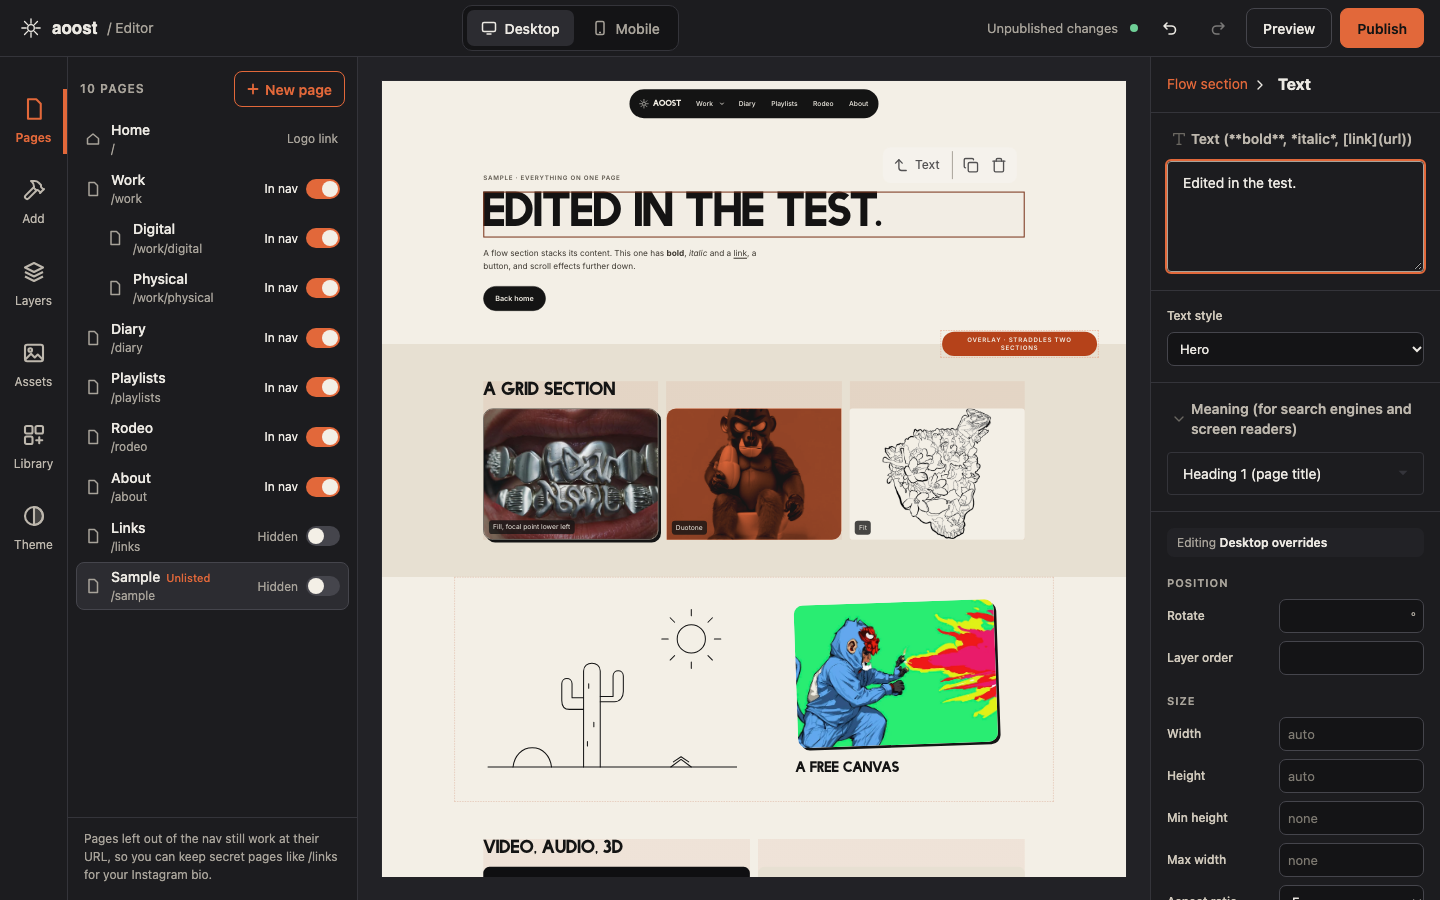
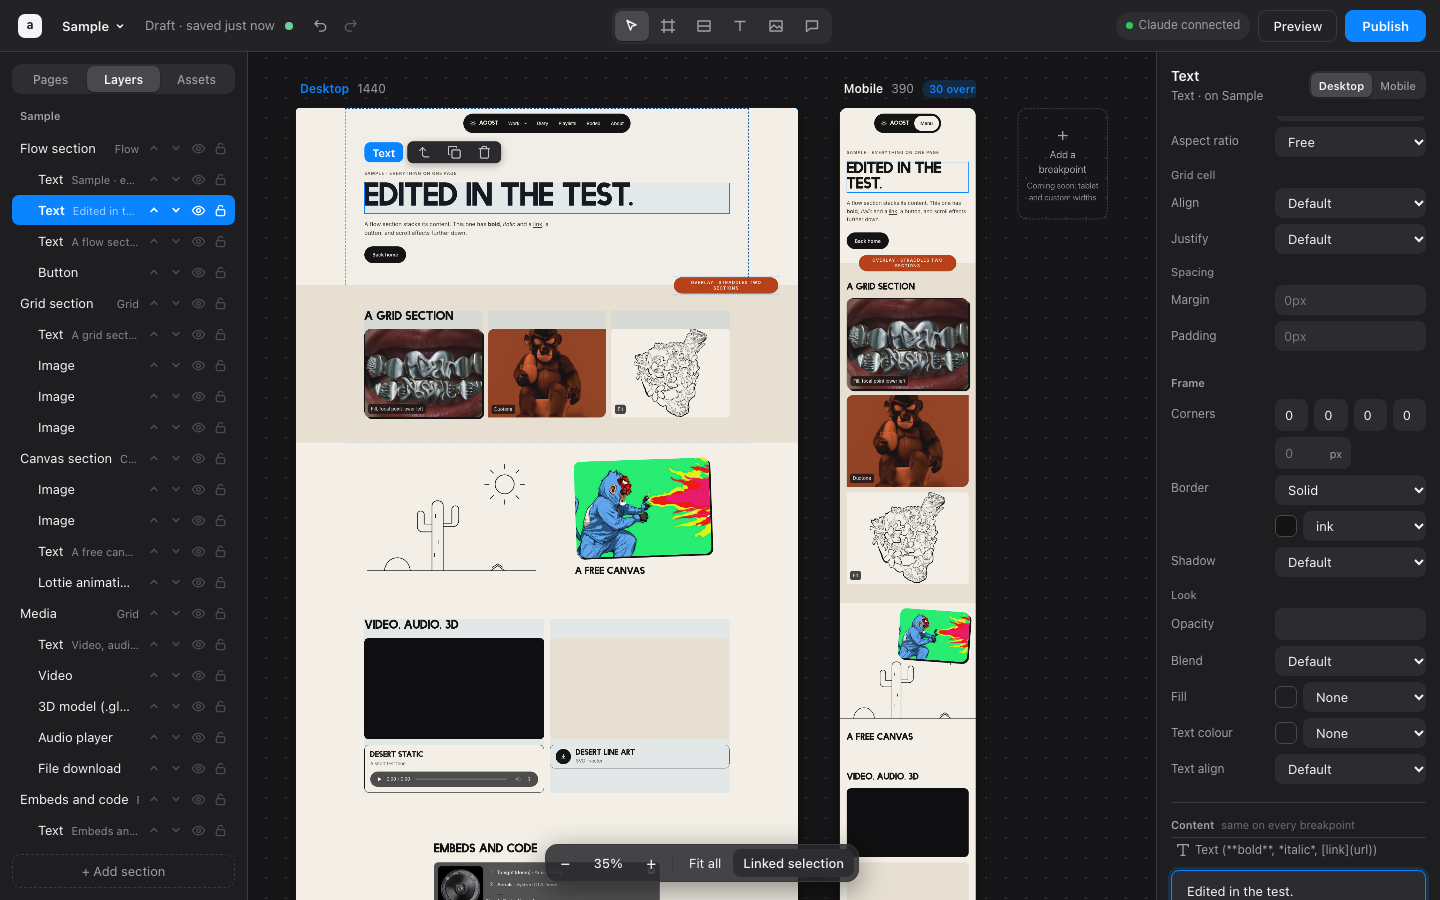
Quick edit and controls in the dark Pro palette, editor screenshots, docs
- Quick edit and every panel share the new tokens and controls
- docs/screenshots/editor-redesign: the B mockup export next to the editor
  with Home open at 1440x900 (fitted, and with a block selected on Mobile)
- README and DECISIONS describe the board and the editing rule

diff --git a/cms/tests/board.spec.ts b/cms/tests/board.spec.ts
@@ -1,5 +1,9 @@
 import { expect, test, type Page } from "@playwright/test";
+import { dirname, resolve } from "node:path";
+import { fileURLToPath } from "node:url";
 import { draftSite, editorPassword, mcpCall, onBoard, resetDraft, signIn } from "./helpers";
+
+const shots = resolve(dirname(fileURLToPath(import.meta.url)), "../../docs/screenshots/editor-redesign");
 
 /**
  * The side-by-side breakpoint board: Desktop and Mobile frames of one draft,
@@ -129,5 +133,32 @@ test.describe("breakpoint board", () => {
     const slot = page.locator(".bd-slot");
     await expect(slot).toHaveAttribute("aria-disabled", "true");
     await expect(slot).toHaveAttribute("title", "Coming soon: tablet and custom widths");
+  });
+});
+
+test.describe("editor screenshots for the docs", () => {
+  test.skip(!password, "needs EDITOR_PASSWORD in .dev.vars");
+  test.use({ viewport: { width: 1440, height: 900 } });
+
+  test("Home open at 1440×900: fitted, and with a block selected on Mobile", async ({ page, request }) => {
+    await resetDraft(request, password!);
+    await signIn(page, password!);
+    // Never write to the live Supabase project from a test.
+    await page.context().route(/supabase\.co|cdn\.jsdelivr\.net\/npm\/@supabase/, (route) => route.abort());
+    await page.goto("/admin/");
+    await page.evaluate(() => localStorage.clear());
+    await page.reload();
+    await expect(editable(page).locator('.ao-b[data-ao="projects"] h2')).toBeVisible();
+    await expect(live(page, "mobile").locator('.ao-b[data-ao="projects"]')).toBeVisible();
+    await page.waitForTimeout(1500);
+    await page.screenshot({ path: `${shots}/editor-home-1440.png` });
+
+    const b = await onBoard(page, live(page, "mobile").locator('.ao-b[data-ao="projects"] h2'));
+    await page.mouse.click(b.x + b.width / 2, b.y + b.height / 2);
+    await expect(bpSwitch(page, "Mobile")).toHaveAttribute("aria-pressed", "true");
+    await page.getByRole("button", { name: "Fit all" }).click();
+    await page.waitForTimeout(1200);
+    await page.screenshot({ path: `${shots}/editor-home-mobile-selected-1440.png` });
+    await resetDraft(request, password!);
   });
 });

diff --git a/cms/src/editor/board/Board.tsx b/cms/src/editor/board/Board.tsx
@@ -6,7 +6,7 @@ import { activateBreakpoint } from "./bridge";
 import { LiveFrame } from "./LiveFrame";
 import { countMobileOverrides } from "./overrides";
 import { frameRects, getBoard, openPage, panBy, setSize, useBoard } from "./store";
-import { isVisible, slotRect } from "./viewport";
+import { FRAME_GAP, isVisible, slotRect } from "./viewport";
 import { onBoardWheel } from "./wheel";
 import { ZoomBar } from "./ZoomBar";
 import "./board.css";
@@ -112,12 +112,13 @@ export function Board() {
           key={f.bp}
           type="button"
           className={`bd-label${f.bp === bp ? " is-active" : ""}`}
-          style={{ ...screen(f.x, f.y), maxWidth: Math.max(120, f.w * view.zoom) }}
+          style={{ ...screen(f.x, f.y), maxWidth: Math.max(180, (f.w + FRAME_GAP * 0.9) * view.zoom) }}
           onClick={() => activateBreakpoint(f.bp)}
           aria-pressed={f.bp === bp}
           aria-label={`Edit the ${NAME[f.bp]} frame`}
         >
           <strong>{NAME[f.bp]}</strong> {f.w}
+          {f.bp === "desktop" ? " · base for wide screens" : null}
           {f.bp === "mobile" && overrides ? <span className="bd-badge">{overrides === 1 ? "1 override" : `${overrides} overrides`}</span> : null}
         </button>
       ))}

diff --git a/cms/src/editor/quick.css b/cms/src/editor/quick.css
@@ -24,7 +24,7 @@
   line-height: 1.2;
 }
 .qe-brand strong {
-  font: 700 17px "Space Grotesk", Inter, sans-serif;
+  font: 600 15px var(--ed-font);
 }
 .qe-brand span {
   font-size: 12px;
@@ -60,7 +60,7 @@
   border-bottom: 2px solid transparent;
   background: transparent;
   color: var(--ed-muted);
-  font: 500 15px Inter, system-ui, sans-serif;
+  font: 500 15px var(--ed-font);
   cursor: pointer;
 }
 .qe-tabs button[aria-selected="true"] {

diff --git a/cms/src/editor/editor.css b/cms/src/editor/editor.css
@@ -171,7 +171,7 @@ body {
 .ed-btn-accent {
   border-color: var(--ed-accent);
   background: var(--ed-accent);
-  color: var(--ed-ink);
+  color: #fff;
   font-weight: 600;
 }
 .ed-btn-accent:hover:not(:disabled) {
@@ -185,7 +185,7 @@ body {
 .ed-btn-danger {
   border-color: var(--ed-accent);
   background: var(--ed-accent);
-  color: var(--ed-ink);
+  color: #fff;
 }
 .ed-btn:disabled,
 .ed-icon:disabled {

diff --git a/cms/src/editor/main.tsx b/cms/src/editor/main.tsx
@@ -2,6 +2,7 @@ import { StrictMode } from "react";
 import { createRoot } from "react-dom/client";
 import { App } from "./App";
 import "./editor.css";
+import "./workspace/workspace.css";
 
 createRoot(document.getElementById("root")!).render(
   <StrictMode>

diff --git a/cms/src/editor/workspace/workspace.css b/cms/src/editor/workspace/workspace.css
@@ -529,6 +529,10 @@
   min-height: 30px;
   gap: 8px;
 }
+.ed-row.ed-row-stack {
+  grid-template-columns: minmax(0, 1fr);
+  gap: 6px;
+}
 .ed-label,
 .ed-field-label {
   color: var(--ed-sub);

diff --git a/DECISIONS.md b/DECISIONS.md
@@ -87,3 +87,14 @@ One line each: the decision, and why. Newest at the bottom.
 - Hiding a block on Mobile now leaves it visible on Desktop (before, hiding on mobile also hid desktop unless desktop had its own setting). Why: same "this breakpoint only" rule.
 - Browser tests start the local Worker with `--var AUTH_MODE:password` (production stays on Cloudflare Access) and take `E2E_PORT` when 8787 is busy. Why: the tests sign in with the editor password; production settings are not touched.
 - Before this work, 14 browser tests already failed on `main` because every page except the homepage is a draft (commit 6af6862), so `/about`, `/sample` and friends are 404 on the built site, plus the Cape Town clock test. They are unrelated to the editor and were left as they are.
+- Puck runs in composition mode (`<Puck>` with our own layout) with `overrides` for its frame and action bar and CSS for the rest; Puck itself is not forked. The active breakpoint's frame is Puck's editable preview; the other frame is a live render of the same draft through the public renderer (`PageBody`, editing mode, so the aoost blocks show their first paint). Clicking a block there moves Puck's frame to that breakpoint and selects it. Why: Puck has one editable preview, and moving an iframe in the DOM reloads it, so Puck's frame slides between slots instead.
+- Inside editor frames, viewport units (vh, svh, dvh, lvh) are pinned to a typical screen (900px desktop, 844px mobile) and each frame is as tall as its page. Why: a frame as tall as the page would otherwise make `100vh` grow forever. Only the editor's copy of the CSS is rewritten.
+- "Fit all" fits the frames across the board and lines up their tops; whole pages are only fitted top to bottom when that doesn't shrink them below half the width fit. Why: the homepage is several screens tall, and fitting its full height made it unreadable (about 10%).
+- Tools: Select is the resting tool; Frame (adds a free-layout section), Section, Text and Image each add one block after the selection, select it and hand back to Select, so there is no hidden mode. Ask Claude opens a short note on how to hand Claude the selection (the editor has no chat of its own).
+- "Claude connected" means the connector made an authenticated call in the last 15 minutes (recorded by the draft store as `connectorSeenAt`, `GET /api/editor/claude`). Why: the brief asks the pill to reflect reality; with Cloudflare Access on, the claude.ai connector has no credentials yet, so it will read "Claude not connected".
+- The "+ Add a breakpoint" slot is shown disabled with "Coming soon: tablet and custom widths". Tablet was not added to the schema (as the brief says).
+- Theme and the saved-blocks library moved under Assets (Blocks · Media · Saved · Theme), since the left panel has three tabs in the mockup.
+- On a free-layout (canvas) section, a layer's X/Y/width/height set on Mobile still drive the scaled desktop layout (as dragging always has), so those four don't pin desktop. Every other property follows the Mobile-only rule.
+- The layers list shows a one-block section (the homepage) as a single row and lists its block once the section is selected. Why: the mockup lists sections; each homepage section holds one block.
+- Performance check (homepage open, typing 31 characters into a field with both frames live): no long tasks (over 50 ms) on this Mac. Off-screen frames don't render, and the passive frame re-renders at most every 150 ms while typing.
+- Public output: every page of the site rendered with `main` and with this branch is byte-identical (all 10 pages, drafts included), and the built `dist/` matches apart from the time-based `?v=` cache-busting suffix.

diff --git a/cms/README.md b/cms/README.md
@@ -34,7 +34,7 @@ docs/                    connect-claude.md, auth.md, screenshots/
 
 **Editing flow.** The editor works on a *draft* held in a Durable Object. Every change (yours, or Claude's through `/mcp`) is validated against the schema, saved, and pushed to open editors over a WebSocket. **Publish** commits the draft's `content/` files to GitHub; the `Deploy CMS preview` Action then rebuilds the static site and deploys the Worker. Version history is git history.
 
-**Responsive rule.** The base is mobile. Desktop (900px and up) stores only the values that differ. In the editor a dot marks a property that differs from mobile; click it to reset.
+**Responsive rule.** The base is mobile. Desktop (900px and up) stores only the values that differ. The editor presents it the other way round, as a designer thinks of it: Desktop is the reference, and an edit made while Mobile is active changes Mobile only (it gets a blue dot; the dot or "Reset to desktop" brings back the desktop value). The stored format is the same either way.
 
 ## Local development
 
@@ -91,9 +91,10 @@ Lighthouse, mobile, on the deployed preview (15 Nov 2026): `/sample` performance
 
 ## Using the editor
 
-- **Top bar:** Desktop/Mobile switch (edits apply to the active breakpoint), save status, undo/redo, Preview (the draft, rendered like the live site), Publish.
-- **Left rail:** Pages, Add (drag in sections and components), Layers (select, rename, lock, hide per breakpoint, reorder, overlays), Assets (media library: drop files to upload), Library (global components and templates), Theme (colours, fonts, text styles).
-- **Right panel:** properties of what is selected. With nothing selected: page settings, navigation items and nav behaviour.
+- **Top bar:** site mark, page switcher (`Home ▾`) and save state; the tools (Select V, Frame F: add a free-layout section, Section, Text T, Image, Ask Claude); Claude's status (it says "Claude not connected" until the connector has made an authenticated call in the last 15 minutes), Preview and Publish. Undo/redo sit next to the save state.
+- **Board (the middle):** the page once per breakpoint, side by side: Desktop 1440 and Mobile 390. One draft, many views: an edit in any frame shows in every frame. Click a block in either frame to select it there; it is outlined in the other frame too, and that frame's breakpoint becomes the one you edit. Scroll to pan, pinch or ⌘-scroll to zoom, Space-drag to pan; ⌘+ / ⌘− / ⌘0 zoom, ⇧1 or "Fit all" shows everything. The view is remembered per page. The dashed "Add a breakpoint" slot is a placeholder: tablet and custom widths are not in the data model yet.
+- **Left panel:** Pages, Layers (select, rename, lock, hide per breakpoint, reorder, overlays, "+ Add section") and Assets (Blocks to drag onto the frame you're editing, Media, Saved global components and templates, Theme).
+- **Inspector (right):** the selected block's name and type, the Desktop/Mobile switch, then Layout, Frame, Content (shared by every breakpoint), Motion and Visible on. With nothing selected: page settings, navigation items and nav behaviour.
 - **Sections:** flow (stacked), grid (split into columns; cells can span), free canvas (drag anywhere; snapping and guides; Shift locks an axis or keeps the ratio when resizing; Alt turns snapping off; arrows nudge; Shift-click selects several, then align or distribute).
 - **Frames:** media sits in a frame. The frame has size, aspect ratio, corners, border, shadow; the content has Fill/Fit/Free, a draggable focal point, zoom and pan.
 - **On a phone** the editor becomes quick edit: text, image swaps, diary entries, playlists, publish.
